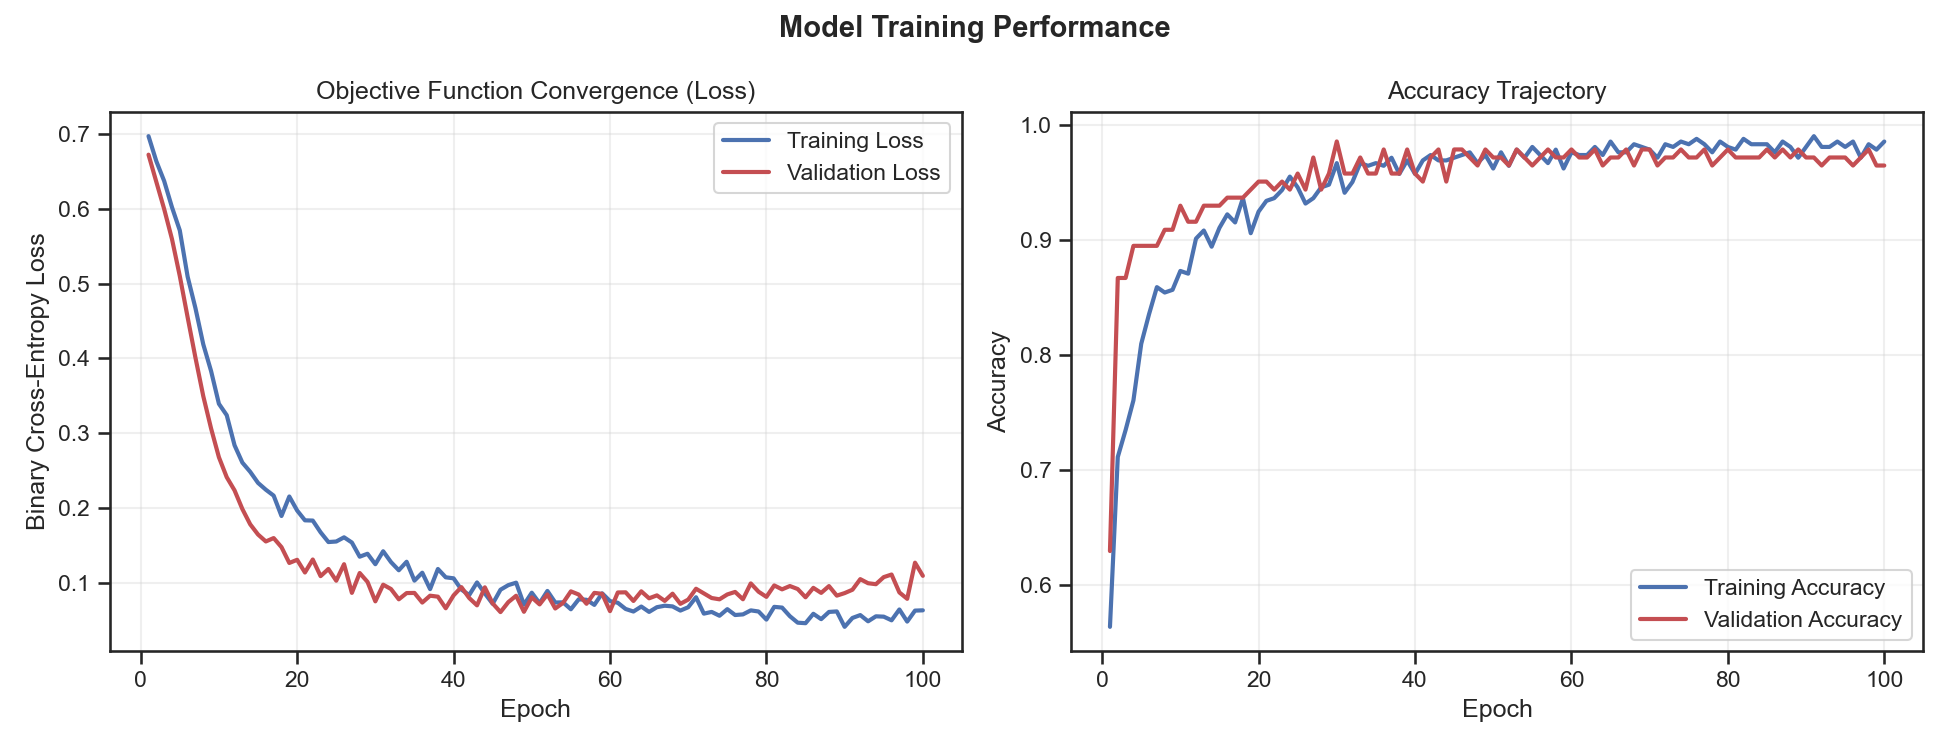
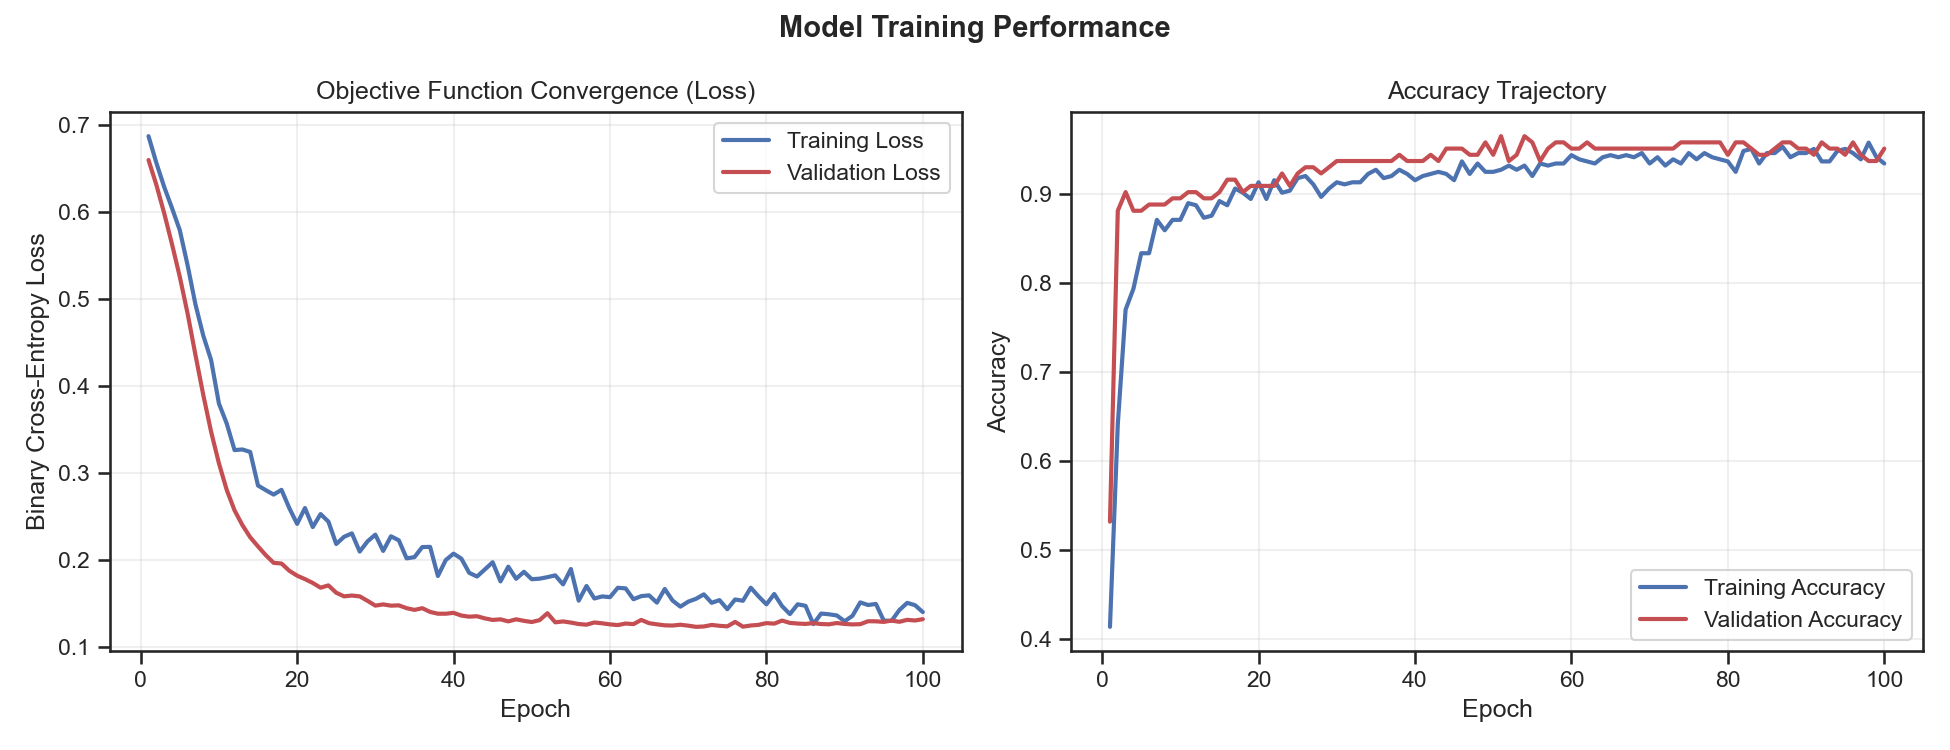
Final feature alignment fix

diff --git a/app.py b/app.py
@@ -1,4 +1,5 @@
 import os
+from pyexpat import model
 os.environ.setdefault("TF_CPP_MIN_LOG_LEVEL", "2")
 
 import logging
@@ -7,8 +8,27 @@ logging.getLogger("tensorflow").setLevel(logging.ERROR)
 import streamlit as st
 import numpy as np
 import pandas as pd
-from tensorflow.keras.models import load_model
 from sklearn.preprocessing import MinMaxScaler
+from tensorflow.keras.models import Sequential
+from tensorflow.keras.layers import Dense, Dropout, Input
+
+def create_model():
+    model = Sequential([
+        Input(shape=(8,)),
+        Dense(64, activation='relu'),
+        Dropout(0.3),
+        Dense(32, activation='relu'),
+        Dropout(0.2),
+        Dense(1, activation='sigmoid')
+    ])
+
+    model.compile(
+        optimizer='adam',
+        loss='binary_crossentropy',
+        metrics=['accuracy']
+    )
+
+    return model
 
 # ---------------------------------------------------
 # PAGE CONFIG
@@ -71,8 +91,8 @@ def load_assets():
     
     scaler = MinMaxScaler()
     scaler.fit(feature_frame)
-    
-    model = load_model("breast_cancer_model.keras", compile=False)
+    model = create_model()
+    model.load_weights("breast_cancer_weights.weights.h5")
     return feature_frame.columns.tolist(), scaler, model, feature_frame
 
 FEATURE_NAMES, scaler, model, feature_frame = load_assets()

diff --git a/breast_cancer_classifier.py b/breast_cancer_classifier.py
@@ -105,7 +105,18 @@ def preprocess(df: pd.DataFrame):
 
     # ── Feature Matrix ──────────────────────────────────────────
     # Drop non-predictive columns
-    X_raw = df.drop(labels=["label", "id"], axis=1, errors="ignore")
+    selected_features = [
+    "radius_mean",
+    "texture_mean",
+    "perimeter_mean",
+    "area_mean",
+    "smoothness_mean",
+    "compactness_mean",
+    "concavity_mean",
+    "concave points_mean"
+]
+
+    X_raw = df[selected_features]
     print(f"[Preprocess] Feature count   : {X_raw.shape[1]}")
 
     # ── MinMax Scaling ──────────────────────────────────────────
@@ -320,8 +331,8 @@ def main():
     evaluate_model(model, x_test, y_test)
 
     # Optional — Save trained model
-    model.save("breast_cancer_model.keras")
-    print("\n[Done] Model saved → breast_cancer_model.keras")
+    model.save_weights("breast_cancer_weights.weights.h5")
+    print("\n[Done] Model saved → breast_cancer_weights.weights.h5")
     print("[Done] All performance assets preserved to project directory.\n")
 
 